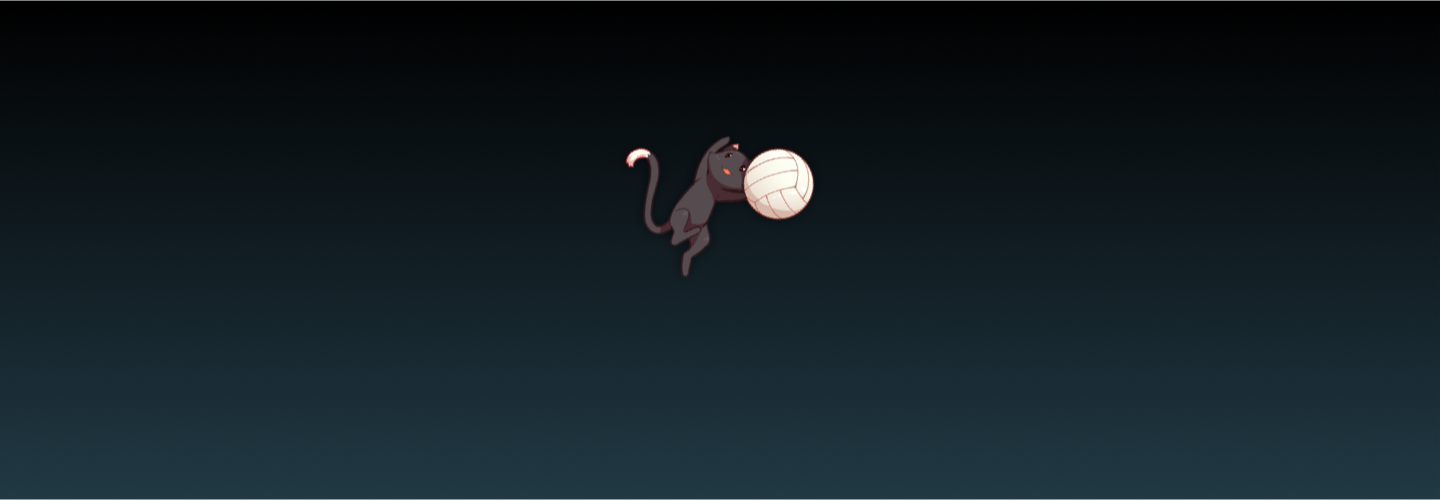
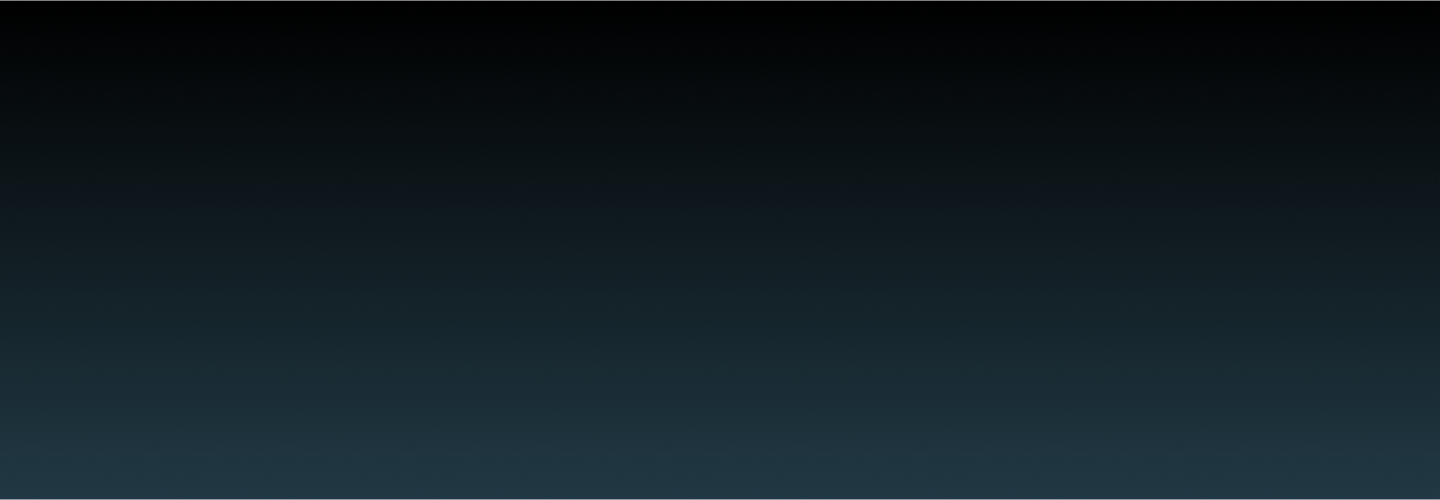
NavBar and Footer first version

Changed region(s): [[0.4375, 0.27, 0.5625, 0.54]]

diff --git a/aniworld/src/Components/Layout-Components/NavBar.jsx b/aniworld/src/Components/Layout-Components/NavBar.jsx
@@ -1,9 +1,52 @@
 import React from "react";
+import "./navbar.css";
+import logo from './img/Logo.png';
+import search from './img/search.svg';
+import bookmark from './img/bookmark.svg';
+import arrow_dropdown from './img/arrow-dropdown.svg';
+import avatar from './img/Retr0_ava.jpg';
 
 export default function NavBar() {
     return(
         <>
-
+            <div id="header-bg">
+                <nav className="nav-head">
+                    <ul className="ul-left">
+                        <li>
+                            <a id="logo-header" href="/MainPage">
+                                <img src={logo} alt=""/>
+                                AniWorld
+                            </a>
+                        </li>
+                        <li>
+                            <a id="button" href="#">Explore</a>
+                        </li>
+                        <li>
+                            <a href="#">Manga</a>
+                        </li>
+                        <li>
+                            <a href="#">Novel</a>
+                        </li>
+                        <li>
+                            <a id="button" href="#">News</a>
+                        </li>
+                    </ul>
+                    <ul className="ul-right">
+                        <li>
+                            <a id="li-right" href="#"><img src={search} alt=""/></a>
+                        </li>
+                        <li>
+                            <a id="li-right" href="#"><img src={bookmark} alt=""/></a>
+                        </li>
+                        <li>
+                            <a id="li-right" href="#">
+                                <img id="profile-logo" src={avatar} alt=""/>
+                                <img src={arrow_dropdown} alt=""/>
+                            </a>
+                        </li>
+                    </ul>
+                </nav>
+            </div>
         </>
     )
 }

diff --git a/aniworld/src/Components/Layout-Components/navbar.css b/aniworld/src/Components/Layout-Components/navbar.css
@@ -1,0 +1,71 @@
+nav.nav-head{
+    display: flex;
+    width: 100%;
+    background: #23252B;
+}
+
+#logo-header{
+    color: #F47521;
+}
+
+#logo-header img{
+    width: 0.8em;
+    padding-right: 0.2em;
+}
+
+nav.nav-head .ul-left{
+    display: flex;
+    align-items: center;
+    list-style: none;
+    width: 50%;
+    margin-left: 10em;
+    height: 30px;
+}
+
+nav.nav-head .ul-left li{
+    padding: 1.1em;
+}
+
+.ul-left li:hover{
+    background-color: #0F1013;
+}
+
+nav.nav-head .ul-right{
+    display: flex;
+    align-items: center;
+    list-style: none;
+    width: 30%;
+    margin-left: 15em;
+    margin-right: 5em;
+    height: 30px;
+}
+
+nav.nav-head .ul-right li{
+    padding: 1.1em;
+}
+
+nav.nav-head .ul-left li a{
+    font-size: 20px;
+    line-height: 22px;
+    text-decoration: none;
+    color: #FFFFFF;
+}
+
+nav.nav-head .ul-right li a{
+    line-height: 22px;
+    text-decoration: none;
+    color: #FFFFFF;
+}
+
+#profile-logo{
+    border-radius: 100%;
+    width: 1.7em;
+}
+
+#li-right{
+    display: flex;
+}
+
+.ul-right li:hover{
+    background-color: #0F1013;
+}

diff --git a/aniworld/src/Components/Layout-Components/footer.css b/aniworld/src/Components/Layout-Components/footer.css
@@ -1,6 +1,5 @@
 .footer{
     width: auto;
     height: 499px;
-    background-image: url("img/Footer.png");
+    background: linear-gradient(0deg, rgba(33, 57, 68, 1) 0%, rgba(0, 0, 0, 1) 100%);
 }
-
